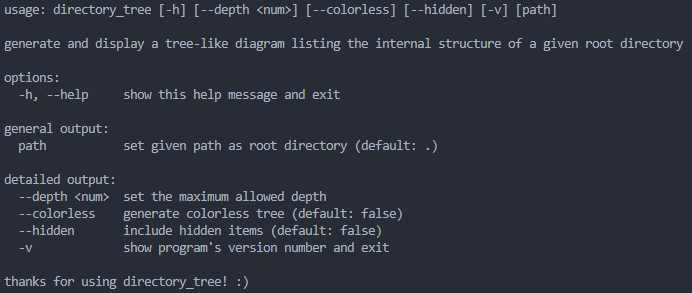
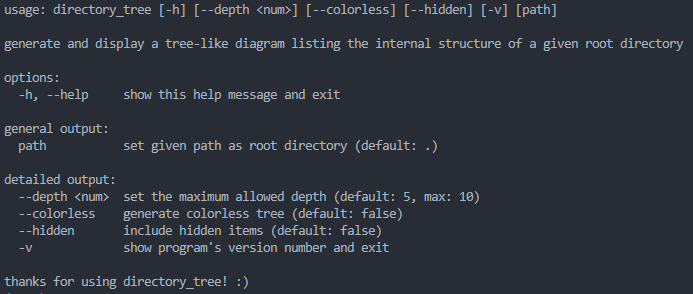
remove ColorlessLineGenerator class

diff --git a/directory_tree/model.py b/directory_tree/model.py
@@ -42,10 +42,7 @@ class Traverser:
 
     def __init__(self, data):
         self.data = data
-        if self.data.colorless:
-            self.my_line_generator = _ColorlessLineGenerator(self.data)
-        else:
-            self.my_line_generator = _LineGenerator(self.data)
+        self.my_line_generator = _LineGenerator(self.data)
 
     def traverse(self):
         items = self._get_items()
@@ -98,9 +95,13 @@ class _LineGenerator:
         self.pipe_prefix = "│   "
         self.tee = "├──"
         self.elbow = "└──"
-        self.directory_color = f"{style(1)}{back(18)}"
-        self.file_color = f"{style(1)}{fore(40)}"
-        self.symlink_color = f"{style(1)}{fore(84)}{back(43)}"
+        self.directory_color = (
+            f"{style(1)}{back(18)}" if not self.data.colorless else ""
+        )
+        self.file_color = f"{style(1)}{fore(40)}" if not self.data.colorless else ""
+        self.symlink_color = (
+            f"{style(1)}{fore(84)}{back(43)}" if not self.data.colorless else ""
+        )
 
     def generate_line(self) -> str:
         self.line = ""
@@ -141,11 +142,3 @@ class _LineGenerator:
 
         else:
             raise TypeError("unknown item type")
-
-
-class _ColorlessLineGenerator(_LineGenerator):
-    def __init__(self, data) -> None:
-        super().__init__(data)
-
-    def _write_item(self) -> None:
-        self.line += self.data.current_item.name + "\n"

diff --git a/directory_tree/cli.py b/directory_tree/cli.py
@@ -44,7 +44,7 @@ def parse_command_line_arguments():
         type=int,
         default=5,
         choices=range(1, 11),
-        help="set the maximum allowed depth",
+        help="set the maximum allowed depth (default: 5, max: 10)",
         metavar="<num>",
     )
     # colorless tree
